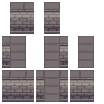
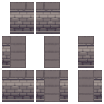
Added JoinableComponent to allow the texture and collidor shape of an entity to change depending on its' neighbours.

diff --git a/source/core/src/main/com/csse3200/game/components/joinable/JoinableComponent.java b/source/core/src/main/com/csse3200/game/components/joinable/JoinableComponent.java
@@ -1,0 +1,213 @@
+package com.csse3200.game.components.joinable;
+
+import com.badlogic.gdx.graphics.g2d.TextureAtlas;
+import com.badlogic.gdx.math.GridPoint2;
+import com.badlogic.gdx.physics.box2d.Shape;
+import com.csse3200.game.entities.Entity;
+import com.csse3200.game.physics.components.ColliderComponent;
+import com.csse3200.game.rendering.AtlasRenderComponent;
+import com.csse3200.game.services.ServiceLocator;
+import com.csse3200.game.services.StructurePlacementService;
+
+import java.util.ArrayList;
+import java.util.HashMap;
+import java.util.List;
+import java.util.Map;
+
+/**
+ * This component is used to change the texture and collision bounds of an entity
+ * depending on its neighbours.
+ */
+public class JoinableComponent extends AtlasRenderComponent {
+    private final Map<JoinDirection, Boolean> JoinedInDirectionMap = new HashMap<>();
+    private final JoinLayer layer;
+    private final JoinableComponentShapes shapes;
+    private static final Map<JoinDirection, GridPoint2> DirectionMatrices = new HashMap<>() {
+        {
+            put(JoinDirection.UP, new GridPoint2(0,-2));
+            put(JoinDirection.DOWN, new GridPoint2(0,2));
+            put(JoinDirection.LEFT, new GridPoint2(2,0));
+            put(JoinDirection.RIGHT, new GridPoint2(-2,0));
+        }
+    };
+
+    @Override
+    public void create() {
+        super.create();
+
+        // finds current position.
+        StructurePlacementService structurePlacementService = ServiceLocator.getStructurePlacementService();
+        GridPoint2 centrePosition = structurePlacementService.getStructurePosition(entity);
+
+        if (centrePosition == null) {
+            return;
+        }
+
+        // calculates tile over in each direction
+        Entity up = structurePlacementService.getStructureAt(centrePosition.cpy().add(0,2));
+        Entity down = structurePlacementService.getStructureAt(centrePosition.cpy().add(0,-2));
+        Entity left = structurePlacementService.getStructureAt(centrePosition.cpy().add(-2,0));
+        Entity right = structurePlacementService.getStructureAt(centrePosition.cpy().add(2,0));
+
+        // adds whether there is a wall in each direction to the JoinDirection array.
+        JoinedInDirectionMap.put(JoinDirection.UP, isEntityJoinable(up));
+        JoinedInDirectionMap.put(JoinDirection.DOWN, isEntityJoinable(down));
+        JoinedInDirectionMap.put(JoinDirection.LEFT, isEntityJoinable(left));
+        JoinedInDirectionMap.put(JoinDirection.RIGHT, isEntityJoinable(right));
+
+        updateAtlasTexture();
+        updateShape();
+    }
+
+    /**
+     * Helper function to check if the entity is joinable.
+     *
+     * @param entity - checks if this entity is joinable with the components' entity.
+     * @return whether the given entity is joinable with the components' entity.
+     */
+    private boolean isEntityJoinable(Entity entity) {
+        if (entity == null) {
+            return false;
+        }
+
+        JoinableComponent component = entity.getComponent(JoinableComponent.class);
+
+        if (component == null) {
+            return false;
+        }
+
+        return this.getJoinLayer() == component.getJoinLayer();
+    }
+
+    /**
+     * Creates a joinable component.
+     *
+     * @param textures - the textures to use for each cardinality
+     * @param layer - the layer to join on
+     * @param shapes - the collision shapes to use for each cardinality
+     */
+    public JoinableComponent(TextureAtlas textures, JoinLayer layer, JoinableComponentShapes shapes) {
+        super(textures, "no-connection");
+
+        this.layer = layer;
+        this.shapes = shapes;
+    }
+
+
+    /**
+     * Updates whether the entity should be joining in a given direction.
+     *
+     * @param direction - the direction the entity should / should not be joined in.
+     * @param isJoined - whether the entity is joined in the given direction.
+     */
+    public void updateJoin(JoinDirection direction, boolean isJoined) {
+        JoinedInDirectionMap.put(direction, isJoined);
+        updateAtlasTexture();
+        updateShape();
+    }
+
+    /**
+     * Updates the entities collision shape to match the new cardinalities.
+     */
+    private void updateShape() {
+        Shape shape = shapes.getShape(deriveCardinalityId());
+
+        entity.getComponent(ColliderComponent.class).setShape(shape);
+    }
+
+    /**
+     * Updates the entities texture to match the new cardinalities.
+     */
+    public void updateAtlasTexture() {
+        setRegion(deriveCardinalityId(), false);
+    }
+
+    /**
+     * Derives the id for the current cardinality which can be used to fetch
+     * the collision shape and texture.
+     *
+     * @return the cardinalities' id.
+     */
+    private String deriveCardinalityId() {
+        List<String> regions = new ArrayList<>();
+
+        if (JoinedInDirectionMap.get(JoinDirection.LEFT)) {
+            regions.add("left");
+        }
+
+        if (JoinedInDirectionMap.get(JoinDirection.UP)) {
+            regions.add("up");
+        }
+
+        if (JoinedInDirectionMap.get(JoinDirection.RIGHT)) {
+            regions.add("right");
+        }
+
+        if (JoinedInDirectionMap.get(JoinDirection.DOWN)) {
+            regions.add("down");
+        }
+
+        if (!regions.isEmpty()) {
+            return String.join("-", regions);
+        }
+
+        return "no-connection";
+    }
+
+    /**
+     * Notifies all the entities neighbours of a change in join status.
+     * @param isJoined - whether the neighbours should or should not be joined.
+     */
+    public void notifyNeighbours(boolean isJoined) {
+        StructurePlacementService structurePlacementService = ServiceLocator.getStructurePlacementService();
+        GridPoint2 centrePosition = structurePlacementService.getStructurePosition(entity);
+
+        notifyNeighbour(JoinDirection.UP, centrePosition, isJoined);
+        notifyNeighbour(JoinDirection.DOWN, centrePosition, isJoined);
+        notifyNeighbour(JoinDirection.LEFT, centrePosition, isJoined);
+        notifyNeighbour(JoinDirection.RIGHT, centrePosition, isJoined);
+    }
+
+    /**
+     * Notifies the neighbour in the given direction of a change in join status.
+     *
+     * @param direction - the direction of the neighbour to notify.
+     * @param centrePosition - the centre position of the entity.
+     * @param isJoined - whether the neighbour should or should not be joined.
+     */
+    public void notifyNeighbour(JoinDirection direction, GridPoint2 centrePosition, boolean isJoined) {
+        StructurePlacementService structurePlacementService = ServiceLocator.getStructurePlacementService();
+
+        GridPoint2 position = centrePosition.cpy().add(DirectionMatrices.get(direction));
+
+        Entity neighbour = structurePlacementService.getStructureAt(position);
+
+        // checks if the neighbour exists
+        if (neighbour == null) {
+            return;
+        }
+
+        JoinableComponent upComponent = neighbour.getComponent(JoinableComponent.class);
+        // checks if the neighbour has a JoinableComponent attached.
+        if (upComponent == null) {
+            return;
+        }
+
+        // checks if the neighbour has the same join layer
+        if (layer != upComponent.getJoinLayer()) {
+            return;
+        }
+
+        upComponent.updateJoin(direction, isJoined);
+    }
+
+    /**
+     * Retrieves the layer which is being joined on.
+     *
+     * @return the layer being joined on.
+     */
+    public JoinLayer getJoinLayer() {
+        return layer;
+    }
+}
+

diff --git a/source/core/src/main/com/csse3200/game/entities/buildables/Wall.java b/source/core/src/main/com/csse3200/game/entities/buildables/Wall.java
@@ -1,21 +1,19 @@
 package com.csse3200.game.entities.buildables;
 
-//import com.badlogic.gdx.math.Vector2;
 import com.badlogic.gdx.graphics.g2d.TextureAtlas;
+import com.badlogic.gdx.math.Vector2;
 import com.badlogic.gdx.physics.box2d.BodyDef;
-import com.csse3200.game.components.CombatStatsComponent;
-import com.csse3200.game.components.HealthBarComponent;
+import com.csse3200.game.components.*;
 import com.csse3200.game.entities.Entity;
 import com.csse3200.game.entities.configs.WallConfig;
-//import com.csse3200.game.input.InputComponent;
+import com.csse3200.game.files.FileLoader;
 import com.csse3200.game.physics.PhysicsLayer;
-import com.csse3200.game.physics.PhysicsUtils;
 import com.csse3200.game.physics.components.ColliderComponent;
 import com.csse3200.game.physics.components.PhysicsComponent;
-import com.csse3200.game.rendering.AtlasRenderComponent;
-import com.csse3200.game.rendering.TextureRenderComponent;
+import com.csse3200.game.components.joinable.JoinableComponent;
+import com.csse3200.game.components.joinable.JoinLayer;
+import com.csse3200.game.components.joinable.JoinableComponentShapes;
 import com.csse3200.game.services.ServiceLocator;
-//import com.csse3200.game.services.ServiceLocator;
 
 /**
  * Core wall class. Wall inherits entity and adds the required components and functionality for
@@ -30,6 +28,9 @@ import com.csse3200.game.services.ServiceLocator;
  * </pre>
  */
 public class Wall extends Entity {
+    private static final JoinableComponentShapes shapes =
+            FileLoader.readClass(JoinableComponentShapes.class, "vertices/walls.json");
+
     /**
      * Constructor to create a Wall entity based on the given config.
      *
@@ -45,11 +46,8 @@ public class Wall extends Entity {
         addComponent(new ColliderComponent().setLayer(PhysicsLayer.OBSTACLE));
         addComponent(new CombatStatsComponent(config.health, 0));
         addComponent(new HealthBarComponent(true));
-        addComponent(new AtlasRenderComponent(textures, "front"));
+        addComponent(new JoinableComponent(textures, JoinLayer.WALLS, shapes));
 
-        PhysicsUtils.setScaledCollider(this, 1f, 0.5f);
-
-        setScale(1f, 1f);
-        getComponent(AtlasRenderComponent.class).scaleEntity();
+        getComponent(JoinableComponent.class).scaleEntity();
     }
 }

diff --git a/source/core/src/main/com/csse3200/game/services/StructurePlacementService.java b/source/core/src/main/com/csse3200/game/services/StructurePlacementService.java
@@ -20,10 +20,25 @@ public class StructurePlacementService {
         handler.trigger("placeStructure", entity);
     }
 
-    public void PlaceStructureAt(Entity entity, GridPoint2 tilePos, boolean centerX, boolean centerY) {
-        handler.trigger("placeStructureAt", new PlaceStructureAtArgs(entity, tilePos, centerX, centerY));
-        placedStructures.put(tilePos, entity);
+    /**
+     * Gets the position of the given entity.
+     *
+     * @param searchEntity - the entity to get the position of.
+     * @return the position of the entity.
+     */
+    public GridPoint2 getStructurePosition(Entity searchEntity) {
+        for (var entry : placedStructures.entrySet()) {
+            if (entry.getValue() == searchEntity) {
+                return entry.getKey();
+            }
+        }
 
+        return null;
+    }
+
+    public void PlaceStructureAt(Entity entity, GridPoint2 tilePos, boolean centerX, boolean centerY) {
+        placedStructures.put(tilePos, entity);
+        handler.trigger("placeStructureAt", new PlaceStructureAtArgs(entity, tilePos, centerX, centerY));
     }
     public Entity getStructureAt(GridPoint2 position) {
         return placedStructures.get(position);

diff --git a/source/core/src/main/com/csse3200/game/components/player/PlayerActions.java b/source/core/src/main/com/csse3200/game/components/player/PlayerActions.java
@@ -3,11 +3,10 @@ package com.csse3200.game.components.player;
 import com.badlogic.gdx.audio.Sound;
 import com.badlogic.gdx.math.GridPoint2;
 import com.badlogic.gdx.math.Vector2;
-import com.badlogic.gdx.math.Vector3;
 import com.badlogic.gdx.physics.box2d.Body;
 import com.csse3200.game.components.Component;
+import com.csse3200.game.components.joinable.JoinableComponent;
 import com.csse3200.game.entities.Entity;
-import com.csse3200.game.entities.buildables.Wall;
 import com.csse3200.game.entities.buildables.WallType;
 import com.csse3200.game.entities.factories.BuildablesFactory;
 import com.csse3200.game.physics.components.PhysicsComponent;
@@ -88,7 +87,9 @@ public class PlayerActions extends Component {
       }
     } else {
       Entity wall = BuildablesFactory.createCustomWall(WallType.basic);
+
       ServiceLocator.getStructurePlacementService().PlaceStructureAt(wall, new GridPoint2(((int) ((location.x) / 2) * 2), ((int) ((location.y) / 2)) * 2), false, false);
+      wall.getComponent(JoinableComponent.class).notifyNeighbours(true);
     }
   }
 }

diff --git a/source/core/src/main/com/csse3200/game/components/joinable/JoinableComponentShapes.java b/source/core/src/main/com/csse3200/game/components/joinable/JoinableComponentShapes.java
@@ -1,0 +1,25 @@
+package com.csse3200.game.components.joinable;
+
+import com.badlogic.gdx.math.Vector2;
+import com.badlogic.gdx.physics.box2d.ChainShape;
+import com.badlogic.gdx.utils.ObjectMap;
+
+/**
+ * This class is used to read-in and store the vertices for entities
+ * with a JoinableComponent attached.
+ */
+public class JoinableComponentShapes {
+    public ObjectMap<String, Vector2[]> vertices;
+
+    /**
+     * Gets the shape with the given id.
+     *
+     * @param id - the cardinalities' id.
+     * @return the shape for the given cardinality id.
+     */
+    public ChainShape getShape(String id) {
+        ChainShape shape = new ChainShape();
+        shape.createChain(vertices.get(id));
+        return shape;
+    }
+}

diff --git a/source/core/src/main/com/csse3200/game/components/joinable/JoinDirection.java b/source/core/src/main/com/csse3200/game/components/joinable/JoinDirection.java
@@ -1,0 +1,12 @@
+package com.csse3200.game.components.joinable;
+
+/**
+ * Used by JoinableComponent to pass around the direction of
+ * a join between elements.
+ */
+public enum JoinDirection {
+    LEFT,
+    RIGHT,
+    UP,
+    DOWN
+}

diff --git a/source/core/src/main/com/csse3200/game/components/joinable/JoinLayer.java b/source/core/src/main/com/csse3200/game/components/joinable/JoinLayer.java
@@ -1,0 +1,8 @@
+package com.csse3200.game.components.joinable;
+
+/**
+ * Used by JoinableComponent to check if two entities should be joined.
+ */
+public enum JoinLayer {
+    WALLS
+}
